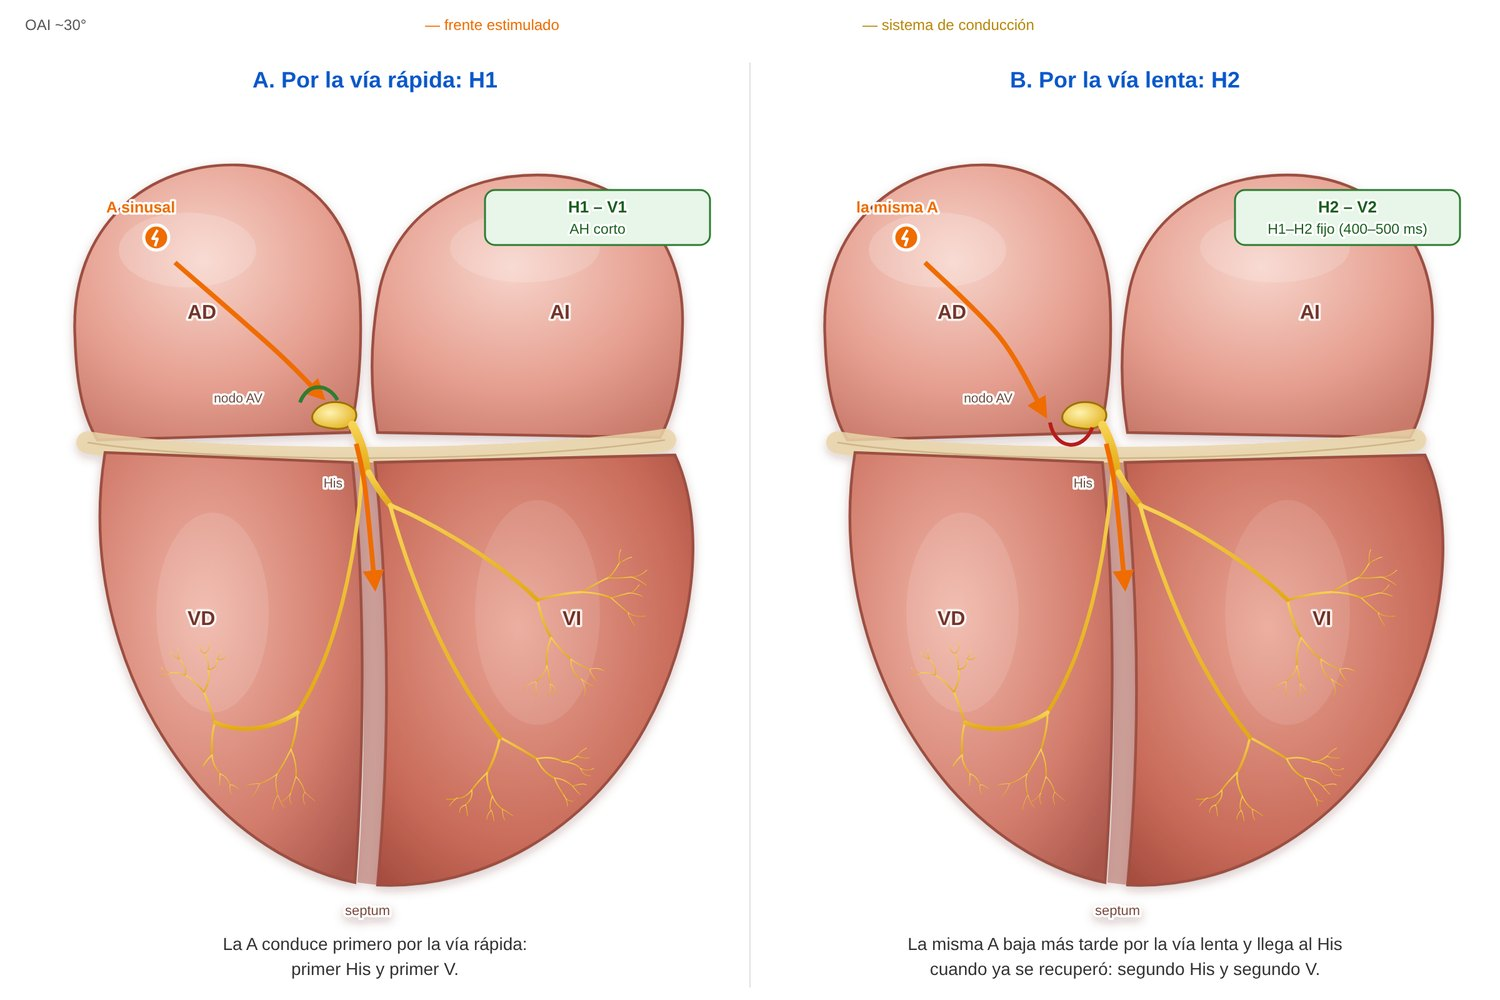
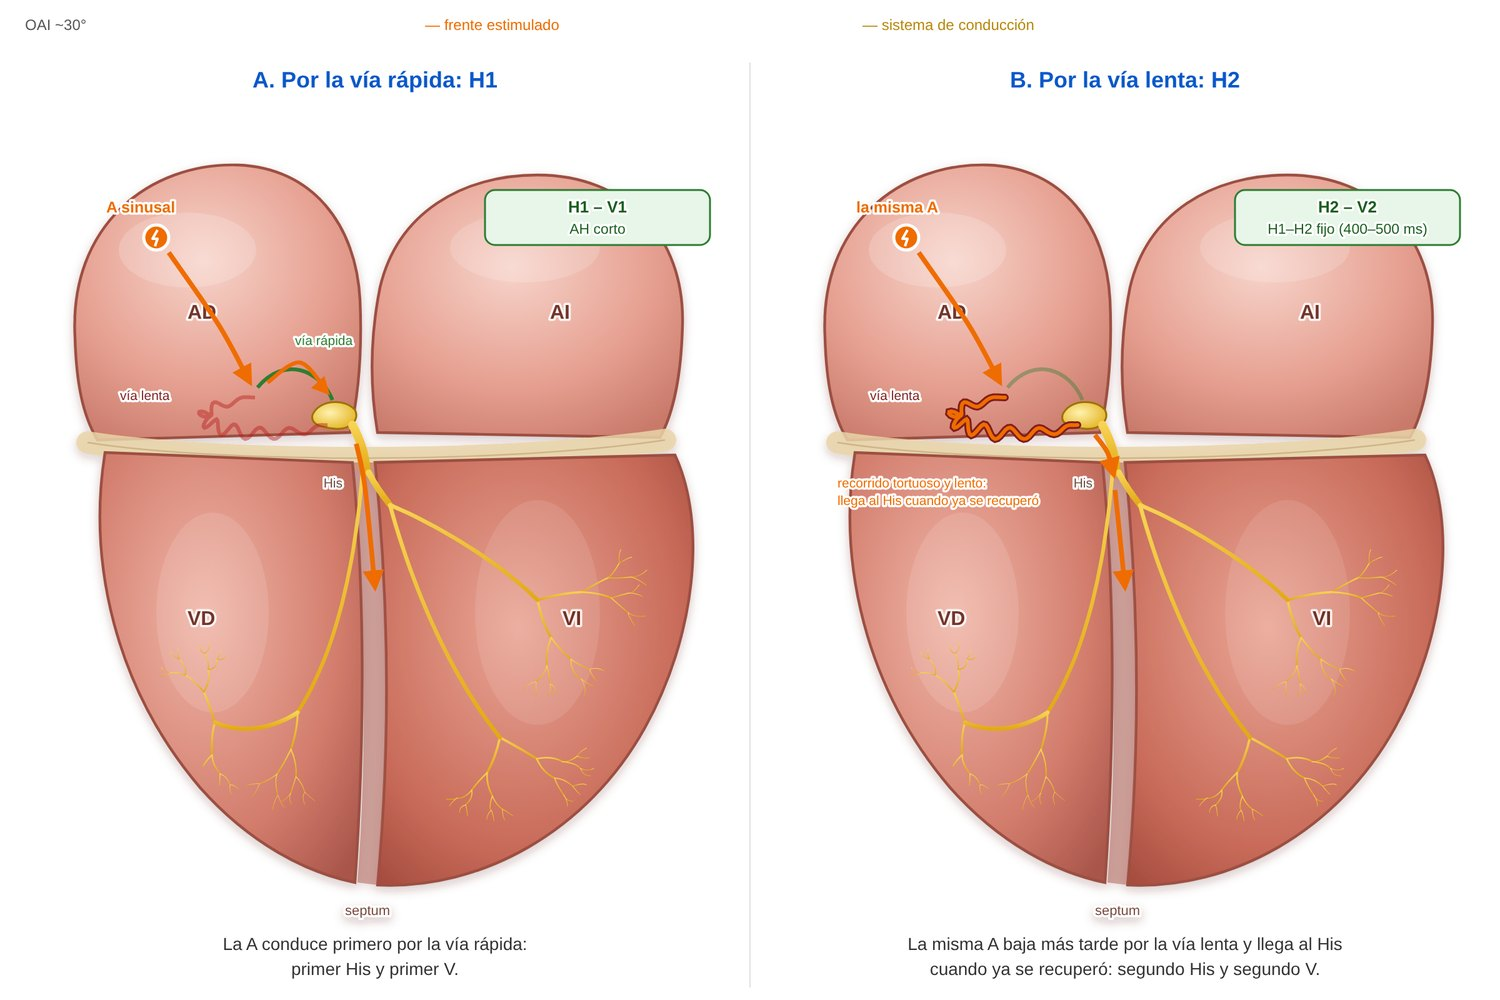
Doble disparo nodal: vía lenta tortuosa y vía rápida rotuladas
Claude-Session: https://claude.ai/code/session_01Pw5rjt62KK5LeJZoEyFiaM

diff --git a/sw.js b/sw.js
@@ -1,6 +1,6 @@
 // Permite instalar la app y abrirla sin conexión. Primero la red (siempre lo último publicado); si no hay, la copia.
 // Si cambiás un archivo, subí CACHE_VERSION.
-const CACHE_VERSION = 'mef-v128';
+const CACHE_VERSION = 'mef-v129';
 const ARCHIVOS = ['./', './index.html', './manifest.json', './iconos/icon-192.png', './iconos/icon-512.png'];
 self.addEventListener('install', e => e.waitUntil(caches.open(CACHE_VERSION).then(c => c.addAll(ARCHIVOS)).then(() => self.skipWaiting())));
 self.addEventListener('activate', e => e.waitUntil(caches.keys().then(ks => Promise.all(ks.filter(k => k !== CACHE_VERSION).map(k => caches.delete(k)))).then(() => self.clients.claim())));

diff --git a/herramientas/esquemas/esquemas.py b/herramientas/esquemas/esquemas.py
@@ -880,13 +880,22 @@ F['obl'] = (
      + box('V más precoz', 'en la inserción ventricular'),
      'Con estimulación auricular el V más precoz marca la inserción|ventricular: invertir el frente ayuda a ubicarlas.'), LEG)
 
+SLOW = wavy((204, 248), (110, 262), (200, 290), (262, 270), 5.5, 8)
+FAST = '<path d="M206,240 C228,214 256,226 266,250" stroke="#2e7d32" stroke-width="3" fill="none"/>'
 F['dfire'] = (
-    ('A. Por la vía rápida: H1', spark(HRA, 'A sinusal', -40, -20) + front((140, 140), (220, 210), (258, 248))
-     + '<path d="M240,252 C246,236 262,236 270,250" stroke="#2e7d32" stroke-width="3" fill="none"/>' + front((285, 285), (292, 320), (300, 400))
-     + box('H1 – V1', 'AH corto'), 'La A conduce primero por la vía rápida:|primer His y primer V.'),
-    ('B. Por la vía lenta: H2', spark(HRA, 'la misma A', -40, -20)
-     + front((140, 140), (200, 200), (236, 262)) + '<path d="M240,268 C244,290 266,292 274,272" stroke="#b71c1c" stroke-width="3" fill="none"/>' + front((285, 285), (292, 320), (300, 400))
-     + box('H2 – V2', 'H1–H2 fijo (400–500 ms)'), 'La misma A baja más tarde por la vía lenta y llega al His|cuando ya se recuperó: segundo His y segundo V.'), [L_EST, L_CS])
+    ('A. Por la vía rápida: H1', spark(HRA, 'A sinusal', -40, -20) + front((135, 132), (175, 190), (200, 236))
+     + FAST + front((214, 236), (240, 220), (262, 244), w=3.2)
+     + f'<path d="{SLOW}" stroke="#b71c1c" stroke-width="3" fill="none" opacity=".45"/>'
+     + note(96, 250, 'vía lenta', '#7f1d1d') + note(236, 206, 'vía rápida', GREEN)
+     + front((285, 285), (292, 320), (300, 400))
+     + box('H1 – V1', 'AH corto'), 'La A conduce primero por la vía rápida:|primer His y primer V.', ('his',)),
+    ('B. Por la vía lenta: H2', spark(HRA, 'la misma A', -40, -20) + front((135, 132), (175, 190), (200, 236))
+     + FAST.replace('stroke-width="3"', 'stroke-width="3" opacity=".4"')
+     + f'<path d="{SLOW}" stroke="#7f1d1d" stroke-width="6" fill="none" stroke-linecap="round"/>'
+     + f'<path d="{SLOW}" stroke="{ORANGE}" stroke-width="3" fill="none" stroke-linecap="round"/>'
+     + note(96, 250, 'vía lenta', '#7f1d1d') + note(70, 320, 'recorrido tortuoso y lento:|llega al His cuando ya se recuperó', ORANGE)
+     + front((276, 278), (286, 292), (291, 310)) + front((292, 322), (296, 360), (300, 400))
+     + box('H2 – V2', 'H1–H2 fijo (400–500 ms)'), 'La misma A baja más tarde por la vía lenta y llega al His|cuando ya se recuperó: segundo His y segundo V.', ('his',)), [L_EST, L_CS])
 
 F['conc'] = (
     ('A. Encarrilamiento oculto', TRAV_S + via(SEPT, 'vía', 14, -22) + spark(BASE_VD, 'estímulo', -60, -18)
